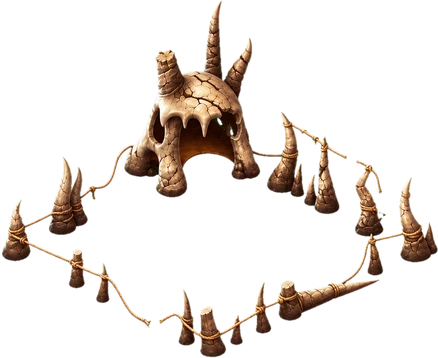
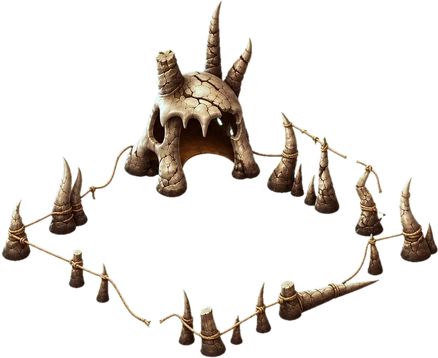
Housing Bunker: one earthy tone for whole, damaged and destroyed
The three Bunker paintings came out cream, tan and salmon, and far brighter than Flash's (47/39/44% against 25%).
export.py now pulls each onto one hue near Flash's earthy R:G:B and a gamma takes it to 37% (as the painted Pod),
which also deepens the horns' feet; a light desaturation after it. Modern build picture 128.inferno remade.

Claude-Session: https://claude.ai/code/session_01YTHpmxqo3agdo7MyCCqmwe

diff --git a/web/src/game/yard/buildButtonModernData.ts b/web/src/game/yard/buildButtonModernData.ts
@@ -142,7 +142,7 @@ export const MODERN_BUTTON_FILE: Readonly<Record<"main" | "inferno", Readonly<Re
     17: "17.inferno.a7a4661c.webp",
     21: "21.inferno.18a67cce.webp",
     26: "26.inferno.56858746.webp",
-    128: "128.inferno.765cf7c9.webp",
+    128: "128.inferno.f6c08ef1.webp",
     129: "129.inferno.10ef0b45.webp",
     130: "130.inferno.9485ebe4.webp",
     132: "132.inferno.cdb0631d.webp",

diff --git a/web/tools/inferno-paint/export.py b/web/tools/inferno-paint/export.py
@@ -40,6 +40,30 @@ def desat(im, f):
     return Image.fromarray(np.clip(a, 0, 255).astype("uint8"), "RGBA")
 
 
+# The Bunker's three pictures came out in three tones (cream, tan, salmon) and far brighter than Flash's (47/39/44%
+# against 25%): each is pulled onto one hue (Flash's earthy R:G:B, a touch warmer) and a gamma takes it to TONE_BRIGHT,
+# which also deepens the horns' feet toward Flash's dark umber.
+TONE = {"b1", "b1d", "b1x"}
+TONE_RATIO = np.array([1.34, 1.0, 0.71])
+TONE_BRIGHT = 0.37
+TONE_SAT = 0.85   # the gamma raises saturation; back toward the Modern style note's ~55%
+
+
+def tone(im):
+    a = np.asarray(im).astype(float)
+    solid = a[..., 3] > 230
+    mean = a[..., :3][solid].mean(0)
+    rgb = a[..., :3] * (TONE_RATIO / (mean / mean[1]))[None, None, :]
+    rgb = np.clip(rgb, 0, 255) / 255
+    lo, hi = 0.5, 3.0
+    for _ in range(40):
+        g = (lo + hi) / 2
+        lum = (rgb[solid] ** g) @ np.array([0.299, 0.587, 0.114])
+        lo, hi = (g, hi) if lum.mean() > TONE_BRIGHT else (lo, g)
+    a[..., :3] = (rgb ** g) * 255
+    return Image.fromarray(np.clip(a, 0, 255).astype("uint8"), "RGBA")
+
+
 def name_of(look):
     b, lv, st = parse(look)
     return f"top.c{lv}{'.' + st if st else ''}@2x.webp"
@@ -50,6 +74,8 @@ def save2x(look):
     CW, CH, OX, OY = canvas(b)
     im4 = Image.open(OUT / "runs" / PICK[look] / f"new-4x-{look}.png").convert("RGBA")
     im4 = desat(im4, SAT[look])
+    if look in TONE:
+        im4 = desat(tone(im4), TONE_SAT)
     if b == "c":   # on Flash's own soft ground
         g = flash_ground(look).resize((CW * UP, CH * UP), Image.LANCZOS)
         g.alpha_composite(im4)
